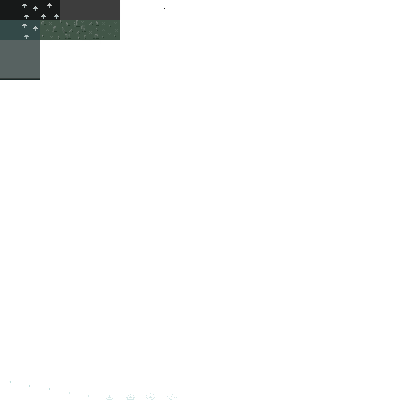
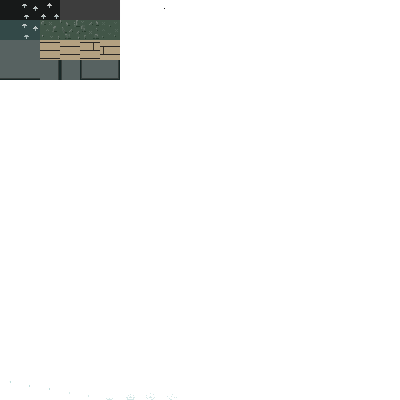
Rain timer randomized. Floor tiles. Starting to work on level one.

Changed region(s): [[0.09, 0.09, 0.3, 0.21], [0.27, 0.99, 0.3, 1.0]]

diff --git a/game/level/holder.go b/game/level/holder.go
@@ -15,68 +15,23 @@ func (h *LevelHolder) GenerateLevelOne() {
 	h.Level = [][]int{
 
 		{
-			23, 23, 25, 25, 25, 25, 24, 24, 24, 24, 24, 24, 24, 24, 24, 24, 24, 24,
-			23, 24, 25, 25, 25, 25, 25, 24, 24, 24, 24, 24, 24, 24, 24, 24, 24, 24,
-			23, 24, 25, 25, 25, 25, 24, 24, 24, 24, 24, 24, 24, 24, 24, 24, 24, 24,
-			24, 24, 24, 24, 24, 24, 24, 24, 26, 27, 28, 29, 324, 31, 24, 24, 24, 24,
-			24, 24, 24, 22, 23, 24, 25, 24, 51, 52, 53, 54, 55, 56, 24, 24, 24, 24,
+			63, 40, 40, 40, 40, 40, 40, 40, 40, 40, 40, 40, 40, 40, 40, 40, 40, 40,
+			63, 40, 60, 60, 60, 60, 60, 60, 60, 60, 60, 60, 60, 60, 60, 60, 40, 40,
+			63, 62, 42, 42, 42, 42, 42, 42, 42, 42, 42, 42, 44, 42, 42, 42, 63, 40,
+			63, 62, 43, 43, 43, 43, 43, 43, 43, 43, 43, 43, 43, 43, 43, 43, 63, 40,
+			63, 62, 42, 42, 42, 42, 42, 42, 42, 42, 42, 42, 42, 42, 42, 42, 63, 40,
+			63, 62, 43, 43, 43, 43, 43, 43, 43, 43, 43, 43, 43, 43, 43, 43, 63, 40,
 
-			24, 24, 24, 24, 1, 2, 1, 2, 76, 77, 78, 79, 824, 81, 24, 24, 24, 24,
-			24, 24, 24, 24, 1, 2, 1, 2, 101, 102, 103, 104, 105, 106, 24, 24, 24, 24,
+			63, 62, 42, 42, 42, 42, 42, 44, 42, 42, 42, 42, 42, 42, 42, 42, 63, 40,
+			63, 62, 43, 43, 43, 45, 43, 43, 43, 43, 43, 43, 43, 43, 43, 43, 63, 40,
 
-			24, 24, 24, 24, 24, 24, 24, 24, 126, 127, 128, 129, 1324, 131, 24, 24, 24, 24,
-			24, 24, 24, 24, 24, 24, 24, 24, 303, 303, 245, 242, 303, 303, 24, 24, 24, 24,
-			24, 24, 24, 24, 24, 24, 24, 24, 24, 24, 245, 242, 24, 24, 24, 24, 24, 24,
-			24, 24, 24, 24, 24, 24, 24, 24, 24, 24, 245, 242, 24, 24, 24, 24, 24, 24,
-			24, 24, 24, 24, 24, 24, 24, 24, 24, 24, 245, 242, 24, 24, 24, 24, 24, 24,
-
-			24, 24, 23, 22, 23, 24, 24, 24, 24, 24, 245, 242, 24, 24, 24, 24, 24, 24,
-			24, 24, 24, 24, 24, 24, 24, 24, 24, 24, 245, 242, 24, 24, 24, 24, 24, 24,
-			24, 23, 22, 23, 24, 22, 24, 24, 24, 24, 245, 242, 24, 24, 24, 24, 24, 24,
-			24, 22, 23, 22, 24, 24, 22, 24, 24, 24, 245, 242, 24, 24, 24, 24, 24, 24,
-			24, 24, 22, 24, 380, 380, 382, 24, 24, 24, 24, 24, 24, 24, 24, 24, 24, 24,
-			24, 23, 24, 24, 23, 24, 22, 24, 24, 24, 24, 24, 24, 24, 24, 24, 24, 24,
-			24, 22, 24, 24, 22, 24, 24, 24, 24, 24, 24, 24, 24, 24, 24, 24, 24, 24,
-			24, 22, 24, 24, 24, 24, 24, 24, 24, 24, 24, 24, 24, 24, 24, 24, 24, 24,
-			24, 24, 22, 24, 22, 24, 24, 24, 24, 24, 24, 24, 24, 24, 24, 24, 24, 24,
-			24, 24, 24, 24, 24, 24, 24, 24, 24, 24, 24, 24, 24, 24, 24, 24, 24, 24,
-			24, 24, 24, 24, 24, 24, 24, 24, 24, 24, 24, 24, 24, 24, 24, 24, 24, 24,
-			24, 24, 24, 24, 24, 24, 24, 24, 24, 24, 24, 24, 24, 24, 24, 24, 24, 24,
-			24, 24, 24, 24, 24, 24, 24, 24, 24, 24, 24, 24, 24, 24, 24, 24, 24, 24,
-		},
-
-		{
-			22, 22, 22, 380, 380, 25, 24, 24, 24, 24, 24, 24, 24, 24, 24, 24, 24, 24,
-			23, 24, 25, 25, 25, 25, 25, 24, 24, 24, 24, 24, 24, 24, 24, 24, 24, 24,
-			23, 24, 25, 25, 25, 25, 24, 24, 24, 24, 24, 24, 24, 24, 24, 24, 24, 24,
-			24, 24, 24, 24, 24, 24, 24, 24, 26, 27, 28, 29, 324, 31, 24, 24, 24, 24,
-			24, 24, 24, 22, 23, 24, 25, 24, 51, 52, 53, 54, 55, 56, 24, 24, 24, 24,
-
-			24, 24, 24, 24, 1, 2, 1, 2, 76, 77, 78, 79, 824, 81, 24, 24, 24, 24,
-			24, 24, 24, 24, 1, 2, 1, 2, 101, 102, 103, 104, 105, 106, 24, 24, 24, 24,
-
-			24, 24, 24, 24, 24, 24, 24, 24, 126, 127, 128, 129, 1324, 131, 24, 24, 24, 24,
-			24, 24, 24, 24, 24, 24, 24, 24, 303, 303, 245, 242, 303, 303, 24, 24, 24, 24,
-			24, 24, 24, 24, 24, 24, 24, 24, 24, 24, 245, 242, 24, 24, 24, 24, 24, 24,
-			24, 24, 24, 24, 24, 24, 24, 24, 24, 24, 245, 242, 24, 24, 24, 24, 24, 24,
-			24, 24, 24, 24, 24, 24, 24, 24, 24, 24, 245, 242, 24, 24, 24, 24, 24, 24,
-
-			24, 24, 23, 22, 23, 24, 24, 24, 24, 24, 245, 242, 24, 24, 24, 24, 24, 24,
-			24, 24, 24, 24, 24, 24, 24, 24, 24, 24, 245, 242, 24, 24, 24, 24, 24, 24,
-			24, 23, 22, 23, 24, 22, 24, 24, 24, 24, 245, 242, 24, 24, 24, 24, 24, 24,
-			24, 22, 23, 22, 24, 24, 22, 24, 24, 24, 245, 242, 24, 24, 24, 24, 24, 24,
-			24, 24, 22, 24, 24, 24, 23, 24, 24, 24, 24, 24, 24, 24, 24, 24, 24, 24,
-			24, 23, 24, 24, 23, 24, 22, 24, 24, 24, 24, 24, 24, 24, 24, 24, 24, 24,
-			24, 22, 24, 24, 22, 24, 24, 24, 24, 24, 24, 24, 24, 24, 24, 24, 24, 24,
-			24, 22, 24, 24, 24, 24, 24, 24, 24, 24, 24, 24, 24, 24, 24, 24, 24, 24,
-			24, 24, 22, 24, 22, 24, 24, 24, 24, 24, 24, 24, 24, 24, 24, 24, 24, 24,
-			24, 24, 24, 24, 24, 24, 24, 24, 24, 24, 24, 24, 24, 24, 24, 24, 24, 24,
-			24, 24, 24, 24, 24, 24, 24, 24, 24, 24, 24, 24, 24, 24, 24, 24, 24, 24,
-			24, 24, 24, 24, 24, 24, 24, 24, 24, 24, 24, 24, 24, 24, 24, 24, 24, 24,
-			24, 24, 24, 24, 24, 24, 24, 24, 24, 24, 24, 24, 24, 24, 24, 24, 24, 24,
+			63, 62, 42, 42, 42, 42, 42, 42, 42, 42, 42, 42, 42, 42, 42, 42, 63, 40,
+			63, 62, 43, 43, 43, 43, 43, 43, 43, 43, 43, 43, 43, 43, 43, 43, 63, 40,
+			63, 62, 42, 42, 42, 42, 42, 42, 42, 42, 42, 42, 42, 42, 42, 42, 63, 40,
+			63, 62, 43, 43, 43, 45, 43, 43, 43, 43, 43, 43, 43, 43, 43, 43, 63, 40,
 		},
 	}
 
-	h.MaxLevelWidth = 18 * tileSize
-	h.MaxLevelHeight = 18 * tileSize
+	h.MaxLevelWidth = 18 * 20
+	h.MaxLevelHeight = 12 * 20
 }

diff --git a/game/view/drawer.go b/game/view/drawer.go
@@ -1,4 +1,4 @@
-package level
+package view
 
 import (
 	"bytes"
@@ -9,6 +9,7 @@ import (
 
 	"github.com/batariloa/lino/game/animator"
 	"github.com/batariloa/lino/game/entity"
+	"github.com/batariloa/lino/game/level"
 	"github.com/batariloa/lino/resources"
 	"github.com/hajimehoshi/ebiten/v2"
 	"github.com/hajimehoshi/ebiten/v2/vector"
@@ -24,7 +25,7 @@ const (
 )
 
 type Drawer struct {
-	Holder       *LevelHolder
+	Holder       *level.LevelHolder
 	RainAnimator *animator.RainAnimator
 	screen       *ebiten.Image
 	OffsetX      float64
@@ -39,7 +40,7 @@ func NewDrawer() *Drawer {
 	ra := animator.NewRainAnimator()
 	go ra.StartTimer()
 	drawer := &Drawer{
-		Holder:       NewLevelHolder(),
+		Holder:       level.NewLevelHolder(),
 		RainAnimator: ra,
 	}
 
@@ -82,30 +83,19 @@ func (d *Drawer) DrawTiles(screen *ebiten.Image, p *entity.Player) {
 	w := tilesImage.Bounds().Dx()
 	tileXCount := w / tileSize
 
-	var xCount = d.Holder.MaxLevelWidth / tileSize
+	var totalTileCount = d.Holder.MaxLevelWidth / tileSize
 	for _, l := range d.Holder.Level {
 		for i, t := range l {
 
 			if t > 379 && t < 400 {
 
-				op := &ebiten.DrawImageOptions{}
-				op.GeoM.Translate(
-					float64((i%xCount)*tileSize)-d.OffsetX,
-					float64((i/xCount)*tileSize)-d.OffsetY)
-
-				currentRainFrame := d.RainAnimator.CurrentRainFrame()
-				log.Printf("Current rainf rame %d", currentRainFrame)
-
-				sx := (currentRainFrame % tileXCount) * tileSize
-				sy := (currentRainFrame / tileXCount) * tileSize
-				screen.DrawImage(tilesImage.SubImage(image.Rect(sx, sy, sx+tileSize, sy+tileSize)).(*ebiten.Image), op)
-
+				d.drawRainTile(i, tileXCount, totalTileCount, screen)
 			} else {
 
 				op := &ebiten.DrawImageOptions{}
 				op.GeoM.Translate(
-					float64((i%xCount)*tileSize)-d.OffsetX,
-					float64((i/xCount)*tileSize)-d.OffsetY)
+					float64((i%totalTileCount)*tileSize)-d.OffsetX,
+					float64((i/totalTileCount)*tileSize)-d.OffsetY)
 
 				sx := (t % tileXCount) * tileSize
 				sy := (t / tileXCount) * tileSize
@@ -114,6 +104,21 @@ func (d *Drawer) DrawTiles(screen *ebiten.Image, p *entity.Player) {
 			}
 		}
 	}
+}
+
+func (d *Drawer) drawRainTile(i, tileXCount, totalTileCount int, screen *ebiten.Image) {
+
+	op := &ebiten.DrawImageOptions{}
+	op.GeoM.Translate(
+		float64((i%totalTileCount)*tileSize)-d.OffsetX,
+		float64((i/totalTileCount)*tileSize)-d.OffsetY)
+
+	currentRainFrame := d.RainAnimator.CurrentRainFrame()
+	log.Printf("Current rainf rame %d", currentRainFrame)
+
+	sx := (currentRainFrame % tileXCount) * tileSize
+	sy := (currentRainFrame / tileXCount) * tileSize
+	screen.DrawImage(tilesImage.SubImage(image.Rect(sx, sy, sx+tileSize, sy+tileSize)).(*ebiten.Image), op)
 }
 
 func (d *Drawer) DrawPlayerModel(screen *ebiten.Image, p *entity.Player) {

diff --git a/game/animator/rain.go b/game/animator/rain.go
@@ -1,6 +1,7 @@
 package animator
 
 import (
+	"math/rand"
 	"sync"
 	"time"
 )
@@ -10,14 +11,16 @@ const (
 )
 
 type RainAnimator struct {
-	Timer *int
-	mu    sync.Mutex
+	Timer      *int
+	RainFrames map[int]int
+	mu         sync.Mutex
 }
 
 func NewRainAnimator() *RainAnimator {
 	timer := 0
 	return &RainAnimator{
-		Timer: &timer,
+		Timer:      &timer,
+		RainFrames: make(map[int]int),
 	}
 }
 
@@ -28,9 +31,15 @@ func (a *RainAnimator) StartTimer() {
 	for range ticker.C {
 		a.mu.Lock()
 		*a.Timer++
-		if *a.Timer > 8 {
+		if *a.Timer > 9 {
 			*a.Timer = 1
 		}
+
+		// Update rain frames for each tile
+		for tileID := range a.RainFrames {
+			a.RainFrames[tileID] = (a.RainFrames[tileID] + 1) % 20
+		}
+
 		a.mu.Unlock()
 	}
 }
@@ -39,4 +48,9 @@ func (a *RainAnimator) CurrentRainFrame() int {
 	a.mu.Lock()
 	defer a.mu.Unlock()
 	return startRainFrame + *a.Timer
+}
+
+func randomDuration() time.Duration {
+	// Generate a random duration between 50ms and 200ms
+	return time.Duration(rand.Intn(150)+50) * time.Millisecond
 }

diff --git a/game/game.go b/game/game.go
@@ -4,16 +4,16 @@ import (
 	"log"
 
 	"github.com/batariloa/lino/game/entity"
-	"github.com/batariloa/lino/game/level"
+	"github.com/batariloa/lino/game/view"
 	"github.com/hajimehoshi/ebiten/v2"
 )
 
 type Game struct {
 	Player *entity.Player
-	Drawer *level.Drawer
+	Drawer *view.Drawer
 }
 
-func NewGame(p *entity.Player, t *level.Drawer) *Game {
+func NewGame(p *entity.Player, t *view.Drawer) *Game {
 
 	return &Game{
 		Player: p,
@@ -60,5 +60,5 @@ func (g *Game) Draw(screen *ebiten.Image) {
 }
 
 func (g *Game) Layout(outsideWidth, outsideHeight int) (screenWidth, screenHeight int) {
-	return level.ScreenWidth, level.ScreenHeight
+	return view.ScreenWidth, view.ScreenHeight
 }

diff --git a/main.go b/main.go
@@ -5,7 +5,7 @@ import (
 
 	"github.com/batariloa/lino/game"
 	"github.com/batariloa/lino/game/entity"
-	"github.com/batariloa/lino/game/level"
+	"github.com/batariloa/lino/game/view"
 	"github.com/batariloa/lino/resources"
 	"github.com/hajimehoshi/ebiten/v2"
 )
@@ -17,7 +17,7 @@ func main() {
 	ebiten.SetWindowTitle("Lino Walks Alone")
 
 	player := entity.NewPlayer(100, 2, 30, 180)
-	tiler := level.NewDrawer()
+	tiler := view.NewDrawer()
 	game := game.NewGame(player, tiler)
 
 	if err := ebiten.RunGame(game); err != nil {
